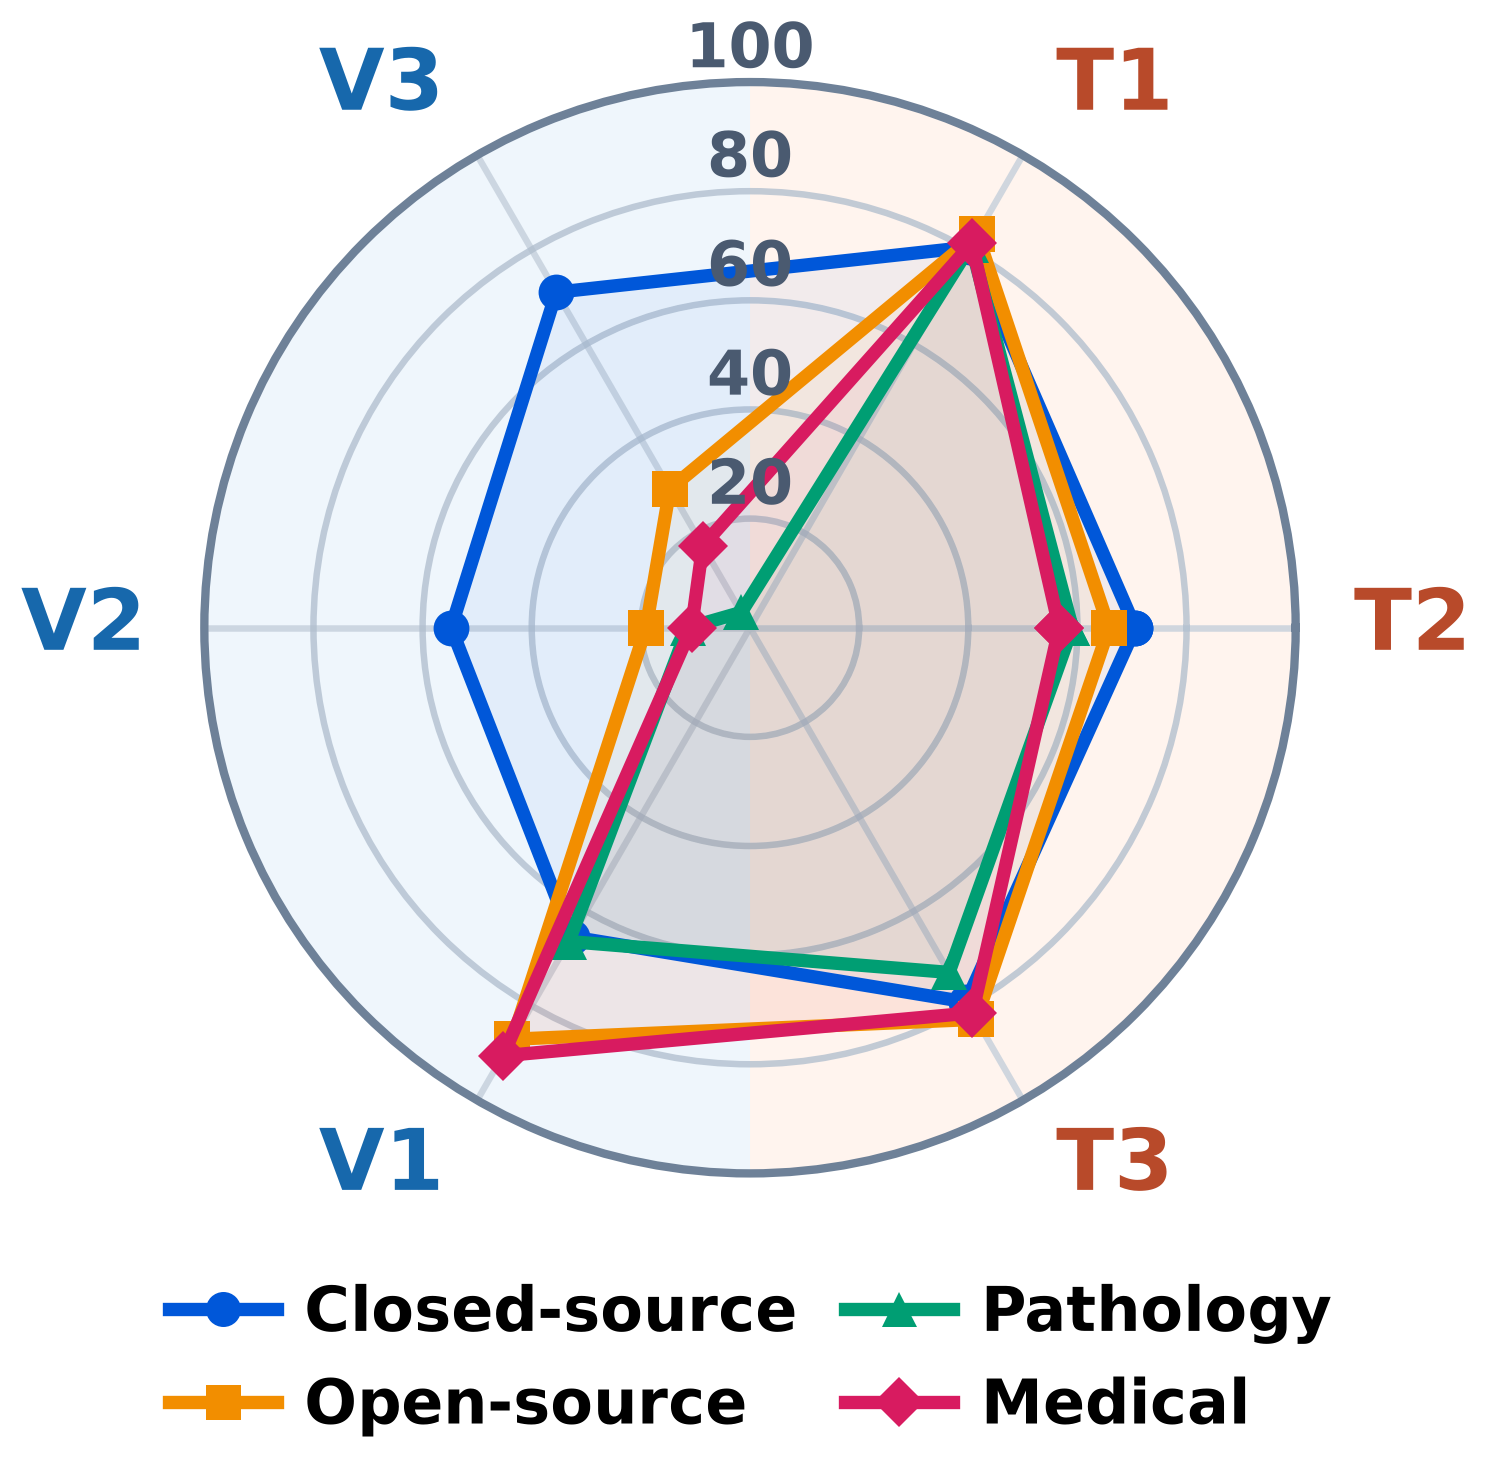
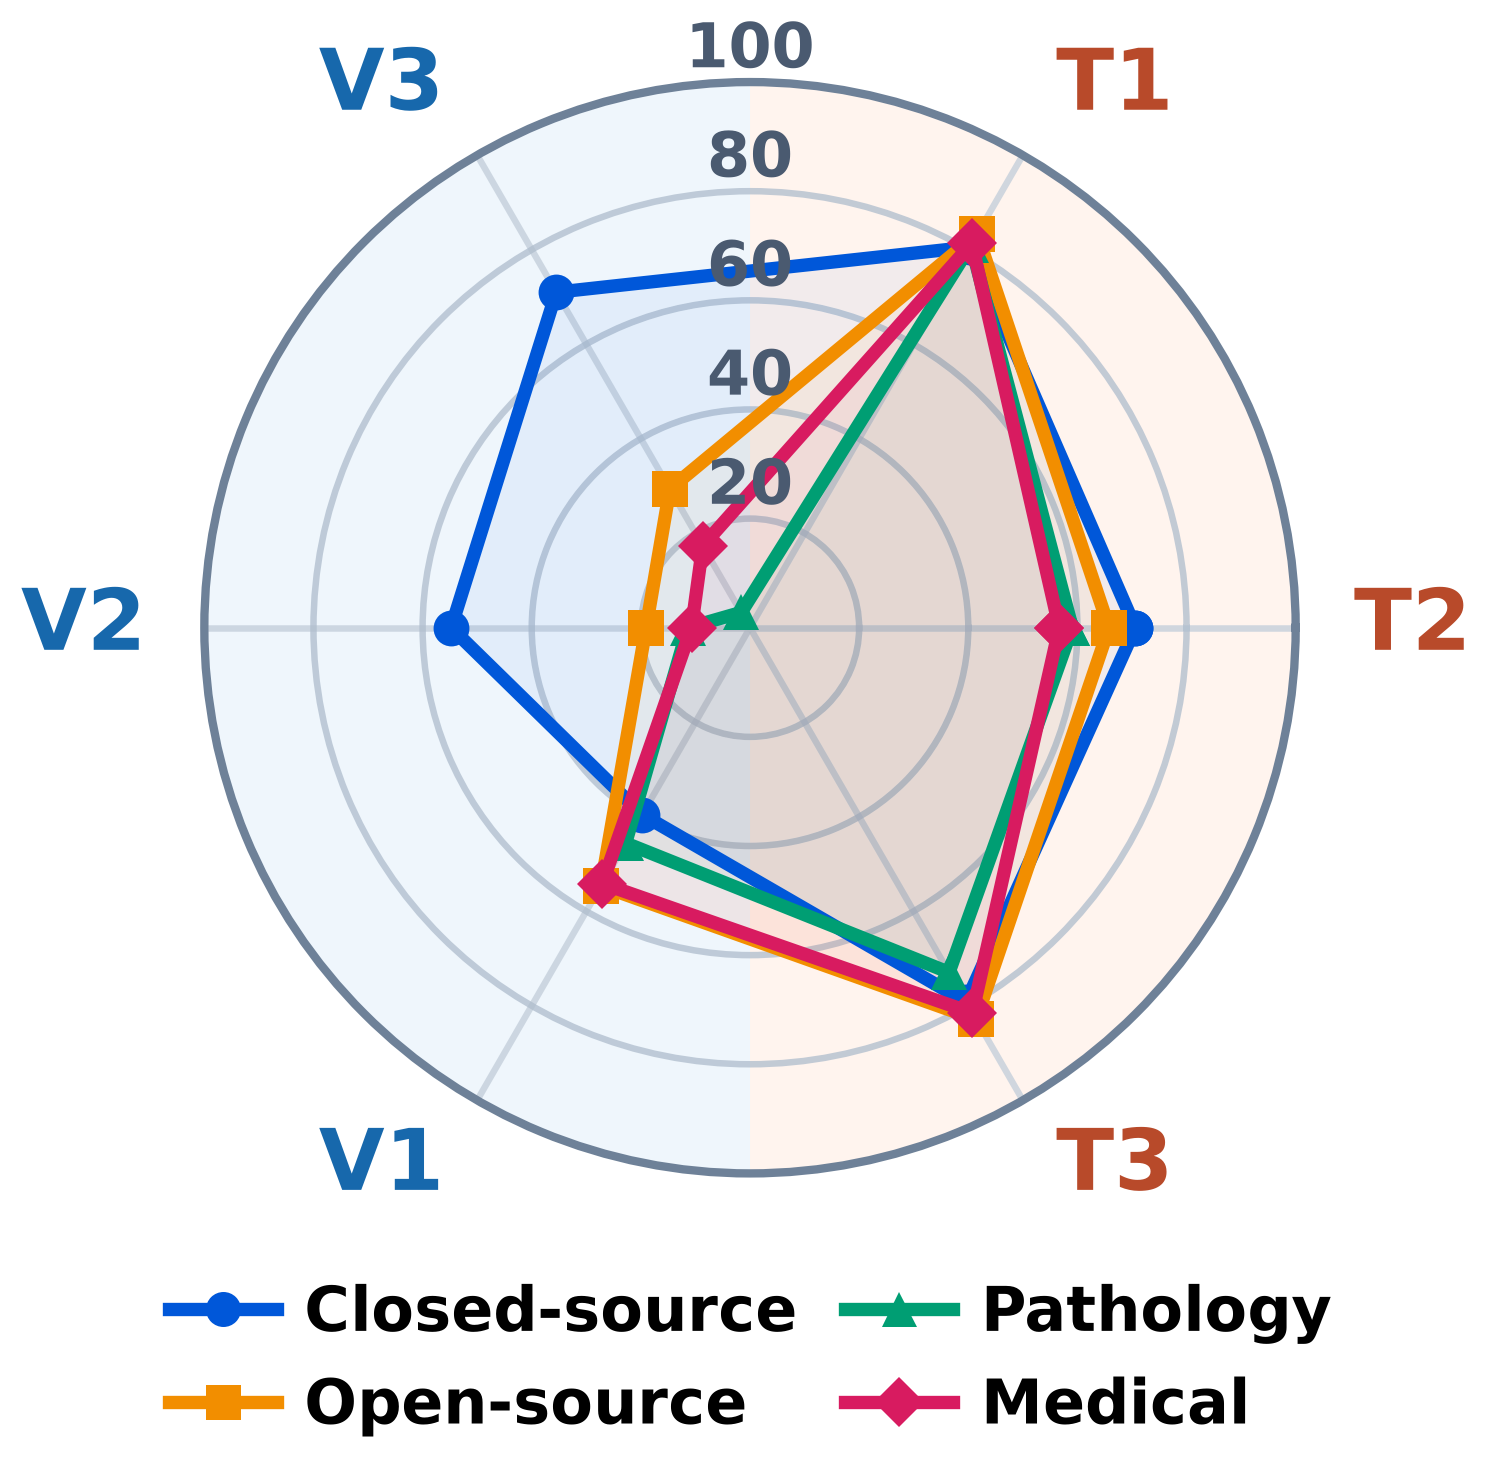
Align scoring formulas and exclude benchmark data

Changed region(s): [[0.3083, 0.434, 0.6475, 0.7439]]

diff --git a/README.md b/README.md
@@ -73,12 +73,14 @@ All six task scores range from 0 to 100, and **higher is better**.
 
 | Score | Definition |
 |---|---|
-| V1 | `100 × (1 − no-image-correct / image-correct)` |
+| V1 | `100 × [1 − clip((H1 − E1) / (O1 − E1), 0, 1)]` |
 | V2 | `100 × (1 − misleading-target adoption / original-correct)` |
 | V3 | `100 × correct image/no-image switches / image-correct` |
 | T1 | `100 × [1 − (L1 + G1 + L2 + G2) / 4]` |
 | T2 | `100 × [1 − (false-NOTA + missed-NOTA) / 2]` |
 | T3 | `100 × retained-correct after wrong hint / original-correct` |
+
+For V1, `O1` is the number of correct responses with the image, `H1` is the number of correct responses without the image, and `E1 = Σ_i(1/k_i)` is the item-level random expectation over the 1,200 paired questions (`k_i` is the number of answer options for item `i`). This chance adjustment reduces the influence of mixed option counts and initial accuracy. V1 is algebraically identical to `100 × clip((O1 − H1) / (O1 − E1), 0, 1)` whenever `O1 > E1`.
 
 The task weights come from five-dimensional ratings by three clinicians and are normalized within each route:
 
@@ -103,7 +105,7 @@ This formulation weights every evaluated item by the weight of its source datase
   <img src="assets/visual_stress_test_results.png" width="100%" alt="Visual hallucination stress-test results for image removal, image-text conflict, and image availability">
 </p>
 
-The visual route measures three distinct behaviors. **V1** tests whether correct answers survive after the image is removed; **V2** measures adoption of a prespecified misleading image description; and **V3** tests whether a model diagnoses when the image is present but correctly abstains when it is absent. The panels report both model-level and family-level response transitions.
+The visual route measures three distinct behaviors. **V1** quantifies the chance-adjusted loss of clean-image capability after image removal, so a higher score indicates weaker retention of no-image shortcuts; **V2** measures adoption of a prespecified misleading image description; and **V3** tests whether a model diagnoses when the image is present but correctly abstains when it is absent. The panels report both model-level and family-level response transitions.
 
 ### Textual stress-test results
 
@@ -130,17 +132,16 @@ The table below provides the exact family means corresponding to the three repor
 
 | Model family | Visual resistance | Text resistance | Dataset-weighted accuracy |
 |---|---:|---:|---:|
-| Closed-source general | 64.1 | 76.5 | 67.3 |
-| Open-source general | 45.2 | 76.8 | 62.0 |
-| Pathology-specialized | 26.6 | 70.3 | 54.1 |
-| General medical | 39.4 | 72.5 | 58.0 |
+| Closed-source general | 55.5 | 76.5 | 67.3 |
+| Open-source general | 34.5 | 76.8 | 62.0 |
+| Pathology-specialized | 19.8 | 70.3 | 54.1 |
+| General medical | 27.4 | 72.5 | 58.0 |
 
 ## Repository layout
 
 ```text
 PathologyHallucinationBench/
 ├── assets/                     # README figures
-├── data/                       # V1–V3 and T1–T3 JSON inputs
 ├── evaluation/                 # model-family evaluation runners
 ├── example/                    # one question represented across six tasks
 ├── result/
@@ -149,7 +150,7 @@ PathologyHallucinationBench/
 └── requirements.txt
 ```
 
-Task JSON files contain image filenames rather than machine-specific absolute paths. Source pathology images are stored separately and supplied at runtime through `--image-root`.
+Benchmark JSON files are distributed separately through the [PathologyHallucinationBench dataset repository](https://huggingface.co/datasets/hanzhaoming/triplet-benchmark) and are intentionally not duplicated in this Git repository. Download them into `data/` before running the evaluators. Task JSON files contain image filenames rather than machine-specific absolute paths; source pathology images are supplied at runtime through `--image-root`.
 
 ## Quick start
 
@@ -160,6 +161,9 @@ cd PathologyHallucinationBench
 python3 -m venv .venv
 source .venv/bin/activate
 pip install -r requirements.txt
+
+# Download the benchmark JSON files separately.
+hf download hanzhaoming/triplet-benchmark --repo-type dataset --local-dir data
 ```
 
 The base installation supports dataset inspection, API runners, and the scoring notebook. Local multimodal runners additionally require their original model repositories, checkpoints, and compatible `torch`/`transformers` environments.
@@ -194,15 +198,6 @@ result/score_six_hallucination_tasks.ipynb
 ```
 
 The notebook exports six task scores, event counts, coverage audits, the count-based dataset-weighted diagnostic accuracy, visual and textual clinician-weighted scores, and the clinician-weighted six-task summary.
-
-It can also be executed non-interactively:
-
-```bash
-jupyter nbconvert --to notebook --execute \
-  result/score_six_hallucination_tasks.ipynb \
-  --output score_six_hallucination_tasks.executed.ipynb \
-  --ExecutePreprocessor.timeout=600
-```
 
 It can also be executed non-interactively:
 
